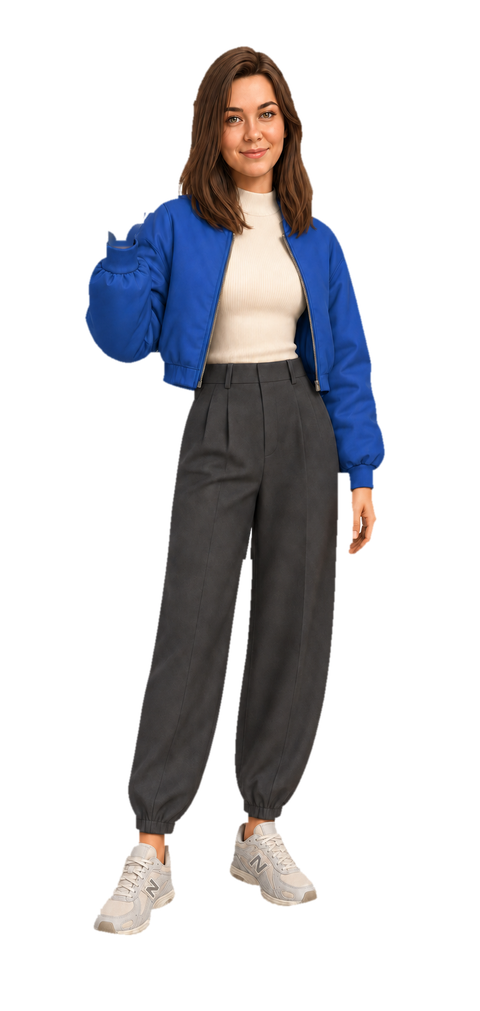
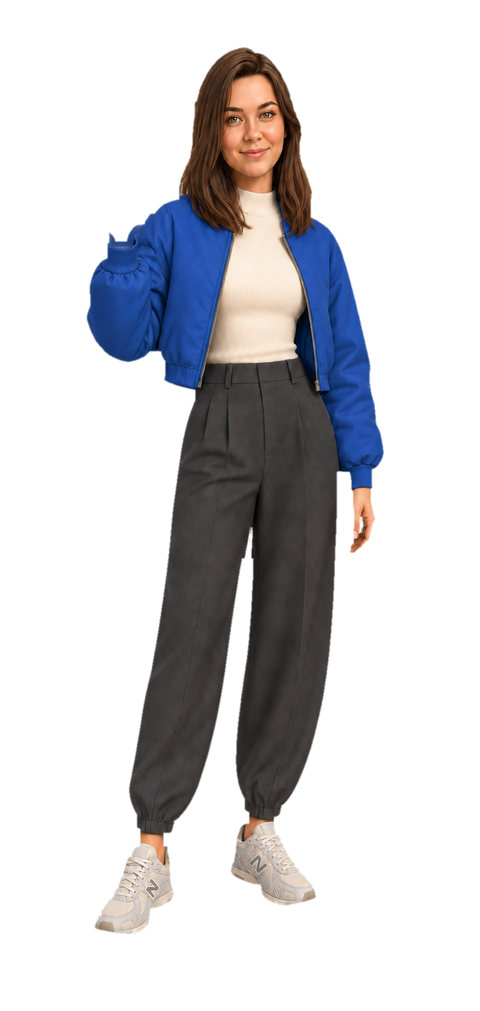
Remove light matte from character edges

diff --git a/ru/index.html b/ru/index.html
@@ -106,16 +106,16 @@
         <div class="intro__title-stage">
           <div class="profile-character" aria-hidden="true">
             <img class="profile-character__layer profile-character__layer--body"
-                 src="../assets/viktoria-wave-rig-body-v7.png?v=1"
+                 src="../assets/viktoria-wave-rig-body-v7.png?v=2"
                  width="480" height="1011" alt="" decoding="async" fetchpriority="high">
             <img class="profile-character__layer profile-character__layer--hand"
-                 src="../assets/viktoria-wave-rig-hand-v7.png?v=1"
+                 src="../assets/viktoria-wave-rig-hand-v7.png?v=2"
                  width="480" height="1011" alt="" decoding="async">
             <img class="profile-character__layer profile-character__layer--wrist"
-                 src="../assets/viktoria-wave-rig-wrist-v7.png?v=1"
+                 src="../assets/viktoria-wave-rig-wrist-v7.png?v=2"
                  width="480" height="1011" alt="" decoding="async">
             <img class="profile-character__layer profile-character__layer--cuff"
-                 src="../assets/viktoria-wave-rig-cuff-v7.png?v=1"
+                 src="../assets/viktoria-wave-rig-cuff-v7.png?v=2"
                  width="480" height="1011" alt="" decoding="async">
           </div>
           <h1 class="intro__title">Проектирую в Figma, собираю в HTML, проверяю в&nbsp;браузере</h1>

diff --git a/index.html b/index.html
@@ -115,16 +115,16 @@
         <div class="intro__title-stage">
           <div class="profile-character" aria-hidden="true">
             <img class="profile-character__layer profile-character__layer--body"
-                 src="assets/viktoria-wave-rig-body-v7.png?v=1"
+                 src="assets/viktoria-wave-rig-body-v7.png?v=2"
                  width="480" height="1011" alt="" decoding="async" fetchpriority="high">
             <img class="profile-character__layer profile-character__layer--hand"
-                 src="assets/viktoria-wave-rig-hand-v7.png?v=1"
+                 src="assets/viktoria-wave-rig-hand-v7.png?v=2"
                  width="480" height="1011" alt="" decoding="async">
             <img class="profile-character__layer profile-character__layer--wrist"
-                 src="assets/viktoria-wave-rig-wrist-v7.png?v=1"
+                 src="assets/viktoria-wave-rig-wrist-v7.png?v=2"
                  width="480" height="1011" alt="" decoding="async">
             <img class="profile-character__layer profile-character__layer--cuff"
-                 src="assets/viktoria-wave-rig-cuff-v7.png?v=1"
+                 src="assets/viktoria-wave-rig-cuff-v7.png?v=2"
                  width="480" height="1011" alt="" decoding="async">
           </div>
           <h1 class="intro__title">I take products from the first flow to something engineers can&nbsp;ship</h1>

diff --git a/tools/build_wave_animation.py b/tools/build_wave_animation.py
@@ -430,6 +430,7 @@ def foreground_mask(frame: Image.Image) -> Image.Image:
 # camera and body never move, only the hand turns inside its zone.
 CLEAR_ZONES = (
     (0.09, 0.13, 0.34, 0.31),   # hand, with room for the swing
+    (0.64, 0.43, 0.80, 0.57),   # hanging hand, without the pale shirt or shoes
     (0.40, 0.52, 0.60, 0.82),   # between the legs, stopping above the shoes
 )
 
@@ -476,6 +477,45 @@ def defringe(frame: Image.Image, mask: Image.Image, band_base: float = 3.2) -> I
     return Image.fromarray(np.clip(cleaned, 0, 255).astype(np.uint8), "RGB")
 
 
+def remove_light_matte(
+    layer: Image.Image,
+    erosion_px: int,
+    band_px: float,
+    brightness_floor: float,
+    neutral_spread: float,
+) -> Image.Image:
+    """Remove pale studio-background colour from a transparent web layer."""
+    alpha = np.asarray(layer.getchannel("A"))
+    if erosion_px:
+        alpha = np.asarray(
+            Image.fromarray(alpha).filter(ImageFilter.MinFilter(erosion_px * 2 + 1))
+        )
+
+    subject = alpha > 3
+    core = binary_erosion(alpha > 220, iterations=3)
+    if not core.any():
+        return layer
+
+    _, nearest = distance_transform_edt(~core, return_indices=True)
+    pixels = np.asarray(layer.convert("RGB")).astype(np.float32)
+    interior = pixels[nearest[0], nearest[1]]
+
+    distance_inside = distance_transform_edt(subject)
+    edge = smoothstep(np.clip((band_px + 1.0 - distance_inside) / band_px, 0.0, 1.0))
+    edge *= subject
+
+    brightness = pixels.mean(axis=2)
+    spread = pixels.max(axis=2) - pixels.min(axis=2)
+    pale_neutral = smoothstep((brightness - brightness_floor) / 70.0)
+    pale_neutral *= smoothstep((neutral_spread - spread) / neutral_spread)
+    strength = edge * pale_neutral
+
+    cleaned = pixels * (1.0 - strength[:, :, None]) + interior * strength[:, :, None]
+    result = Image.fromarray(np.clip(cleaned, 0, 255).astype(np.uint8), "RGB").convert("RGBA")
+    result.putalpha(Image.fromarray(alpha))
+    return result
+
+
 def export_css_rig(
     clean_plate: Image.Image,
     hand_layer: Image.Image,
@@ -505,16 +545,16 @@ def export_css_rig(
     clean_hand.putalpha(hand_alpha)
 
     layers = {
-        "viktoria-wave-rig-body-v7.png": body,
-        "viktoria-wave-rig-hand-v7.png": clean_hand,
-        "viktoria-wave-rig-wrist-v7.png": wrist_patch,
-        "viktoria-wave-rig-cuff-v7.png": cuff_layer,
+        "viktoria-wave-rig-body-v7.png": (body, (1, 6.0, 120.0, 85.0)),
+        "viktoria-wave-rig-hand-v7.png": (clean_hand, (1, 4.0, 130.0, 70.0)),
+        "viktoria-wave-rig-wrist-v7.png": (wrist_patch, None),
+        "viktoria-wave-rig-cuff-v7.png": (cuff_layer, (1, 4.0, 130.0, 70.0)),
     }
-    for filename, layer in layers.items():
-        layer.resize((WEB_WIDTH, WEB_HEIGHT), Image.Resampling.LANCZOS).save(
-            OUT_DIR / filename,
-            optimize=True,
-        )
+    for filename, (layer, cleanup) in layers.items():
+        web_layer = layer.resize((WEB_WIDTH, WEB_HEIGHT), Image.Resampling.LANCZOS)
+        if cleanup:
+            web_layer = remove_light_matte(web_layer, *cleanup)
+        web_layer.save(OUT_DIR / filename, optimize=True)
 
 
 def place_on_background(
